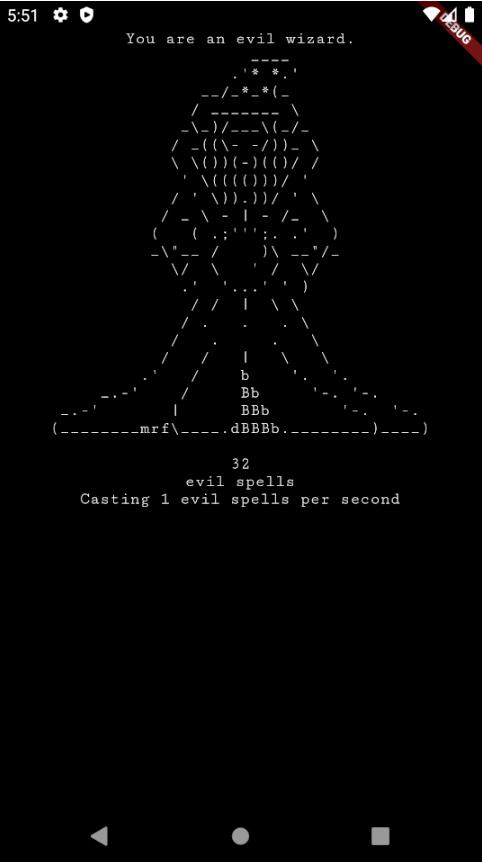
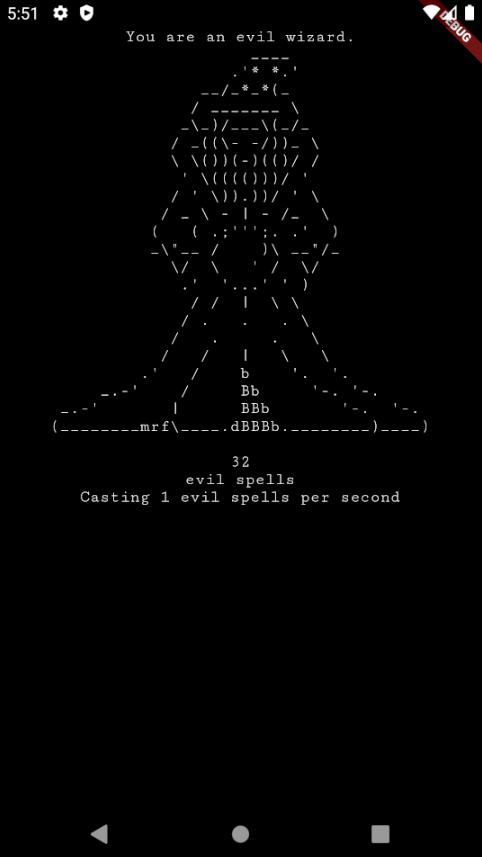
Added image to readme

diff --git a/readme.md b/readme.md
@@ -1,1 +1,6 @@
 An experiment in building a simple idle clicker game for Android with Flutter. Work in progress.
+ASCII wizard art by Morfina @ asciiart.eu
+
+<p align="center">
+    <img src="https://github.com/milorodrigues/evil_wizard_idle_game/blob/main/images/readme_image_202303081752.png?raw=true" alt="Screenshot of the app's current state" />
+</p>
